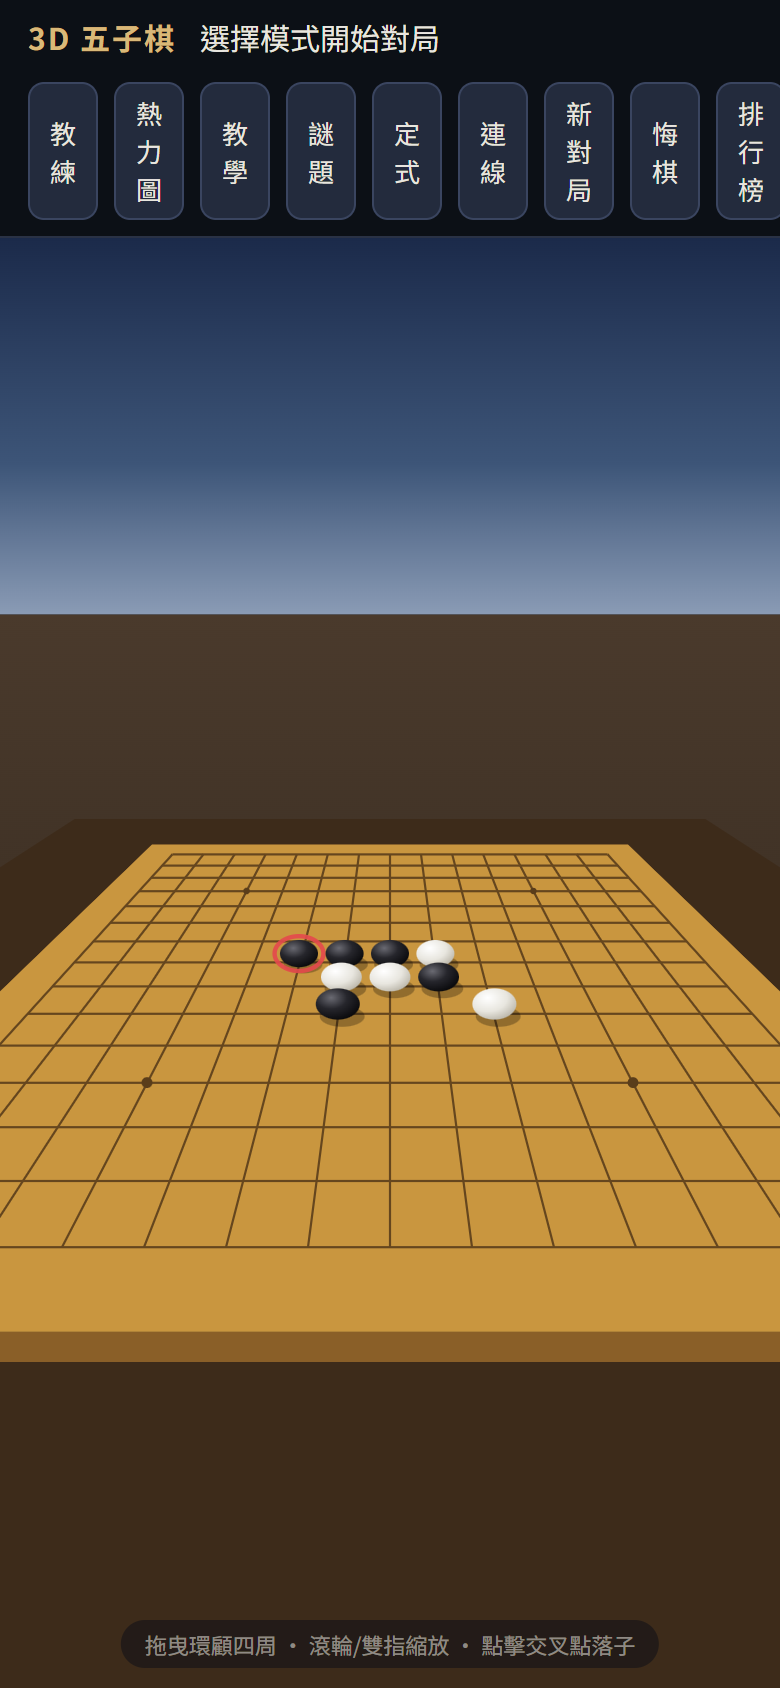
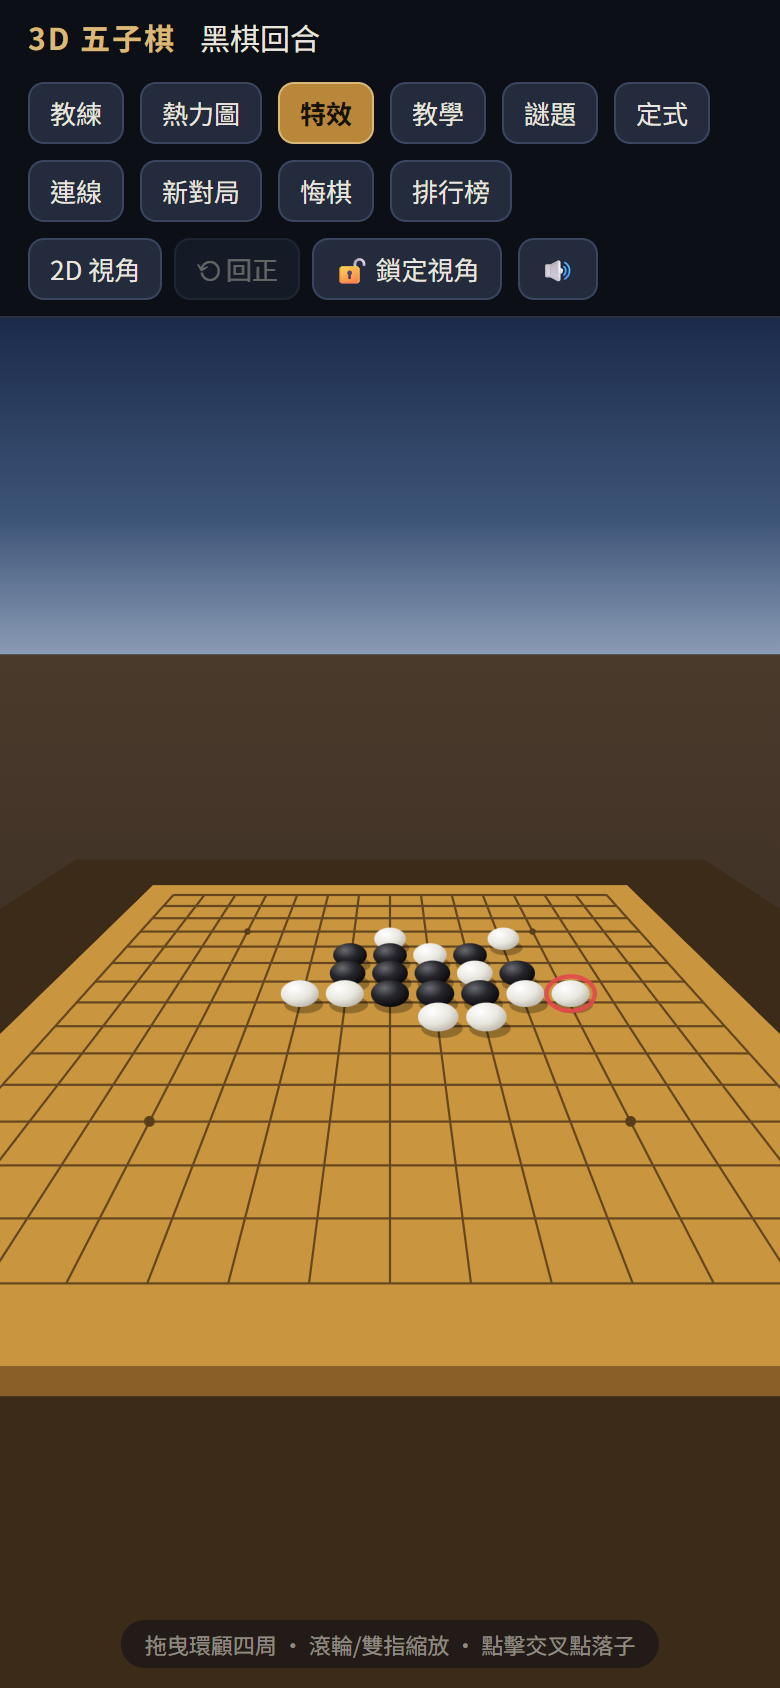
收尾：README 雙棋種化、新截圖與 og-image
任務 10/10（加入圍棋）。

- README 全面改寫：共通特色／五子棋／圍棋三段式，補圍棋規則、MCTS 與
  終局數子的設計說明、測試清單（474 項）、專案結構
- 截圖全部重拍（Playwright 擺中盤棋局實拍）：screenshot.png（五子棋）、
  screenshot-go.png（圍棋 19 路，新增）、screenshot-mobile.png（手機直向）
- og-image.png 重做：1200×630，左五子棋右圍棋並排，一眼看出一站兩棋

最終回歸：Node 測試 8 支 474 項、瀏覽器端 7 套 174 項全數通過。

Changed region(s): [[0.0, 0.4929, 1.0, 0.8318], [0.0, 0.0, 1.0, 0.1848], [0.0, 0.2773, 1.0, 0.4005]]

diff --git a/README.md b/README.md
@@ -1,36 +1,48 @@
-# 3D 五子棋 — 第一人稱對弈（強化 AI 版）
+# 3D 棋弈 — 五子棋 × 圍棋
 
-純 HTML + CSS + JavaScript + SVG 打造的 3D 五子棋，零依賴、零建置、零框架。
-以第一人稱視角坐在棋桌前對弈，可拖曳環顧、縮放視角，支援雙人對戰與電腦對戰。
+純 HTML + CSS + JavaScript + SVG 打造的 3D 棋盤遊戲，零依賴、零建置、零框架。
+一站兩種棋：**五子棋**（minimax 深度搜尋 AI）與**圍棋**（9／13／19 路、MCTS 電腦對手、中國規則數子）。
+以第一人稱視角坐在棋桌前對弈，可拖曳環顧、縮放視角，支援雙人對戰、電腦對戰與線上對戰。
 
 基於 [tonnychiulab/555](https://github.com/tonnychiulab/555)（MIT License）二次開發：
-AI 升級為 **minimax + alpha-beta 剪枝深度搜尋（四段難度）**，並新增教學、殘局謎題、
-開局定式圖鑑、AI 思考熱力圖、禁手規則、棋譜回放、線上對戰與霓虹開場等功能。
+先將五子棋 AI 升級為 minimax + alpha-beta 剪枝（四段難度），再把整個 UI 重構為棋種無關
+（`GAMES` 設定表），新增完整的圍棋規則、蒙地卡羅樹搜尋 AI 與終局數子流程。
 
 **線上遊玩：https://hbkqoo.github.io/gomoku/**
 
-![遊戲畫面](screenshot.png)
+![五子棋畫面](screenshot.png)
+![圍棋畫面](screenshot-go.png)
 
-## 特色
+## 特色（兩種棋共通）
 
-- **純 SVG 3D 渲染** — 不用 WebGL、不用 Canvas、不用任何函式庫。自製透視相機（yaw/pitch 旋轉矩陣 + 透視除法）將棋盤、棋子投影成 SVG 圖形，棋子依深度排序繪製
+- **純 SVG 3D 渲染** — 不用 WebGL、不用 Canvas、不用任何函式庫。自製透視相機（yaw/pitch 旋轉矩陣 + 透視除法）將棋盤、棋子投影成 SVG 圖形，棋子依深度排序繪製；盤面大小可變（15 路五子棋、9/13/19 路圍棋），相機距離隨盤面自動調整
 - **第一人稱視角** — 拖曳環顧四周、滾輪或雙指縮放，像真的坐在棋桌前
-- **2D 俯視 / 回正 / 鎖定視角** — 「2D 視角」把相機搬到棋盤正上方，回到傳統平面棋盤（不影響落子與所有功能）；「⟲ 回正」一鍵把角度與縮放還原成預設；「🔓 鎖定視角」擋掉拖曳與縮放，專心下棋不會誤觸轉動棋盤。三者的狀態都會記在瀏覽器裡，下次開啟沿用
-- **雙人對戰 / 與電腦對戰** — 電腦強度四級：入門（單手啟發式＋隨機）、進階（2 層搜尋）、困難（6 層搜尋）、大師（1.5 秒時間預算迭代加深至 10 層）；核心採 negamax + alpha-beta 剪枝，搭配滑動五格窗盤面評估（能正確判斷 `X X _ X X` 等帶洞棋形），可選執黑或執白
-- **線上對戰（WebRTC P2P）** — 和朋友直接連線對弈，零伺服器、不綁帳號：用任何聊天工具互傳「邀請碼／回應碼」即完成配對；落子、悔棋、新對局即時同步，斷線自動回單機（Google STUN 協助 NAT 穿透）
-- **教學模式** — 分「新手技巧」（6 條大白話必勝技巧口訣）與「動手練習」（五個必勝殘局關卡：連五、活三變活四、雙活三、四三殺、雙四殺）；下錯自動退回重試、卡關可看提示，過關附棋理說明並記錄進度；每一關的必勝性經引擎搜尋驗證
-- **殘局謎題（每日 + 練習）** — 依日期產生每天固定的殘局挑戰，三難度（入門1手／進階2手／高手3手）；每一題都經「引擎實際對打」驗證保證有解，下錯退回重試，每日破解狀態記錄
-- **開局定式圖鑑** — 連珠 26 種標準開局（花月、浦月等），小型棋形預覽標手數＋理論評價，可從任一開局「你執黑」開始對弈
-- **AI 思考熱力圖** — 一鍵顯示 AI 對每個候選點的評分（藍→紅），白環標出首選，看懂電腦怎麼想
-- **教練模式與提示** — 對局中即時標出雙方威脅點（連五點、必擋點、雙威脅、活三，依急迫度過濾）；「提示」按鈕由 AI 建議下一手
-- **禁手規則（可選）** — 正式五子棋規則：黑棋禁雙活三、雙四、長連（連五優先於禁手）；禁手點以 ✕ 標示、誤點會提示原因，AI 執黑也會避開
-- **棋譜回放** — 對局結束後逐手回放整盤棋（按鈕或鍵盤 ←/→），檢討哪裡下錯
-- **落子音效** — Web Audio 即時合成（落子、勝利、禁手音），不需音檔，可一鍵靜音
-- **無限悔棋** — 悔到空盤為止；電腦模式一次退兩手；勝局悔棋可復活繼續下
-- **電腦對電腦（觀戰模式）** — 黑棋是「大哥」：敗局已定時會閃白倒轉時間、悔棋改寫歷史（最多三次）；若仍被逼入絕境，天空轉為日出、對手棋子逃出棋盤，字幕宣告「大哥沒有輸！」（此模式維持原作的單手啟發式，保留戲劇平衡）
-- **霓虹 Tron 開場動畫** — 首次進入播放 6 秒開場：深空黑底霓虹網格、能量脈衝方環、棋盤通電浮現，可隨時輕觸跳過
-- **排行榜與親筆簽名** — 獲勝後可在簽名板上手寫簽名，連同名字、手數、用時存入 `localStorage`
-- **多裝置支援** — Pointer Events 統一處理滑鼠與觸控，響應式排版，手機直接玩
+- **2D 俯視 / 回正 / 鎖定視角** — 「2D 視角」把相機搬到棋盤正上方，回到傳統平面棋盤；「⟲ 回正」一鍵還原角度與縮放；「🔓 鎖定視角」擋掉拖曳與縮放避免誤觸。狀態記在瀏覽器裡，下次開啟沿用
+- **線上對戰（WebRTC P2P）** — 和朋友直接連線對弈，零伺服器、不綁帳號：用任何聊天工具互傳「邀請碼／回應碼」即完成配對。棋種與盤面以主機為準；落子、悔棋、虛手、認輸、死子確認、結算全程同步，斷線自動回單機（Google STUN 協助 NAT 穿透）
+- **AI 思考熱力圖** — 一鍵顯示 AI 對每個候選點的評價（藍→紅），白環標出首選；圍棋版以 MCTS 訪問數分時計算，不凍結畫面
+- **教練模式與提示** — 五子棋標出雙方威脅點（連五點、必擋點、雙威脅…）；圍棋標出叫吃層級的戰術（金＝可提子、粉紅＝我方剩一氣、紅＝逃氣點）；「提示」按鈕由 AI 建議下一手
+- **教學模式** — 每棋種各有「觀念小抄」與「動手練習」關卡，下錯自動退回重試、卡關可看提示，過關進度分開記錄
+- **棋譜回放** — 對局結束後逐手回放（按鈕或鍵盤 ←/→）；圍棋的回放按規則重演提子過程
+- **排行榜與親筆簽名** — 獲勝後手寫簽名上榜；每棋種一份榜（圍棋記錄路數與目數差／中盤勝）
+- **落子音效** — Web Audio 即時合成，不需音檔；**無限悔棋**（圍棋悔棋會還原被提的子與劫的狀態）；**多裝置支援**（Pointer Events 統一滑鼠與觸控，手機直接玩）
+
+## 五子棋
+
+- **四段電腦難度** — 入門（單手啟發式＋隨機）、進階（2 層搜尋）、困難（6 層搜尋）、大師（1.5 秒時間預算迭代加深至 10 層）；negamax + alpha-beta 剪枝、滑動五格窗盤面評估（能正確判斷 `X X _ X X` 等帶洞棋形）
+- **殘局謎題（每日 + 練習）** — 依日期產生每天固定的挑戰，三難度；每一題經「引擎實際對打」驗證保證有解
+- **開局定式圖鑑** — 連珠 26 種標準開局（花月、浦月等），可從任一開局「你執黑」開始對弈
+- **禁手規則（可選）** — 黑棋禁雙活三、雙四、長連；禁手點以 ✕ 標示、AI 執黑也會避開
+- **教學五關** — 連五、活三變活四、雙活三、四三殺、雙四殺；必勝性經引擎搜尋驗證
+- **電腦對電腦（觀戰模式）** — 黑棋是「大哥」：敗局已定時閃白倒轉時間悔棋改寫歷史（最多三次），仍不敵則對手棋子逃出棋盤，字幕宣告「大哥沒有輸！」
+- **霓虹 Tron 開場動畫** — 首次進入播放 6 秒，可隨時輕觸跳過
+
+## 圍棋
+
+- **完整規則** — 氣與提子、禁著點（自殺）、打劫（禁止立刻回提）、**位置超劫**（Zobrist 雜湊禁止重現先前盤面）、虛手；9／13／19 路三種盤面，中國規則、貼目 7.5 目
+- **MCTS 電腦對手** — 蒙地卡羅樹搜尋（UCT）＋帶叫吃應對的隨機模擬，四段難度（入門數百盤模擬～大師每手約 4 秒）。內部用 union-find ＋「偽氣」法維護棋塊與氣，實測 9 路每秒約 5 萬盤模擬、19 路約 1.3 萬盤；搜尋以 requestAnimationFrame 分時執行，AI 思考時畫面不凍結。19 路受純網頁運算量所限，棋力以 9 路最佳
+- **終局流程** — 雙方連續虛手 → 確認死子（自動判死當起點，**點任何一塊棋可切換死活**，比分即時更新、地盤即時著色）→ 中國規則數子（活子＋圍地＋貼目，結算面板列明細）；隨時可認輸。自動判死結合蒙地卡羅擁有率與兩條硬規則（兩眼無條件活；單一 ≤3 點眼位必死），複雜死活仍以手動修正為準
+- **教學六關** — 氣與提子、逃出叫吃、雙叫吃、做出兩個眼、打劫（實際體驗劫的規則與劫材）、征子；每關的可解性與錯手判定經測試驗證
+- **狀態列** — 即時顯示雙方提子數、對方虛手提醒、終局結果
 
 ## 本機執行
 
@@ -53,43 +65,56 @@ python -m http.server 8000
 | 縮放 | 滾輪 | 雙指開合 |
 | 2D 俯視 / 回正 / 鎖定 | 「2D 視角」／「⟲ 回正」／「🔓 鎖定視角」按鈕 | 同左 |
 | 悔棋 | 「悔棋」按鈕或 `Ctrl+Z` / `U` | 「悔棋」按鈕 |
+| 虛手 / 認輸（圍棋） | 「虛手」／「認輸」按鈕 | 同左 |
+| 確認死子（圍棋終局） | 點棋子切換死活 → 「確認結算」 | 同左 |
 
-## AI 設計（本版強化重點）
+## AI 設計
 
-`engine.js` 的 `aiMove(game, opts)`：
+### 五子棋（`engine.js`）
 
 1. **一步決勝負捷徑** — 己方能連五直接下；對方下一手能連五直接擋，不進搜尋
-2. **走法排序** — 對每個候選點（既有棋子 2 格內）以攻守合算的啟發式評分排序，每層只展開前 8 名（`BRANCH = 8`）
-3. **negamax + alpha-beta** — 困難級 6 層（雙方各三手），能看穿「做雙活三」「四三殺」等組合攻擊；大師級用時間預算迭代加深（2→10 層、預設 1.5 秒）
-4. **盤面評估** — 滑動五格窗：任一五格窗內只有單方棋子時依子數計分 `[0, 2, 40, 800, 20000, 10000000]`，開放棋形自然落在多個乾淨窗內而累積高分；對手同級威脅加權 ×1.15
-5. **選項** — `opts.level`（`easy`/`medium`/`hard`/`master` 難度預設）、`opts.depth`（自訂深度，`0` = 原作的單手啟發式）、`opts.jitter`/`opts.pool`（隨機性，觀戰模式用）、`opts.timeBudget`/`opts.maxDepth`（迭代加深）
+2. **走法排序** — 對每個候選點以攻守合算的啟發式評分排序，每層只展開前 8 名
+3. **negamax + alpha-beta** — 困難級 6 層；大師級用時間預算迭代加深（2→10 層）
+4. **盤面評估** — 滑動五格窗依子數計分，開放棋形自然累積高分；對手同級威脅加權 ×1.15
 
-分析 API：`hints(game)` 威脅點分類（教練模式）、`analyzeMoves(game)` 候選點評分（熱力圖）、`forcedWin/forcedLoss(game, depth)` 必勝／必敗判定（教學關卡與謎題判題）、`forbiddenReason(board, x, y)` 禁手判定（Renju 簡化版）。
+分析 API：`hints`（教練）、`analyzeMoves`（熱力圖）、`forcedWin/forcedLoss`（教學判題）、`forbiddenReason`（禁手）。
 
-強度基準（`node tests/benchmark.js`，seeded 可重現）：搜尋版對原作啟發式（加隨機擾動）20 局 16 勝 0 敗 4 和，深度版單手思考最長約 0.5 秒。
+### 圍棋（`go.js` + `go-ai.js`）
+
+- `go.js`：規則引擎。棋塊與氣用 flood fill、超劫用雙 32 位元 Zobrist 雜湊、
+  中國規則數子（死子可外部指定）、棋譜重播按規則重演
+- `go-ai.js`：高速盤面（union-find + 偽氣三累加量，叫吃判定 O(1)）、
+  UCT 樹搜尋＋先驗（提子/救子/位置）、模擬帶叫吃應對（提掉被叫吃的敵塊、
+  救出被叫吃的我方棋塊），可分時執行（`createSearch().step(ms)`）；
+  `guessDead` 以多盤模擬統計每點歸屬，供終局自動判死
 
 ## 測試
 
-引擎、教學關卡、謎題產生器、定式資料皆可在 Node 直接測試（純邏輯，不需瀏覽器）：
+引擎、AI、教學關卡、謎題產生器、定式資料皆可在 Node 直接測試（純邏輯，不需瀏覽器）：
 
 ```bash
-node tests/engine.test.js    # 引擎單元測試（56 項：規則、禁手、難度、熱力圖評分、AI 強度）
-node tests/lessons.test.js   # 教學關卡驗證（35 項：必勝性、正解、錯手判定）
-node tests/puzzles.test.js   # 謎題產生器驗證（23 項：各難度合法、日期決定性、對打驗證）
-node tests/openings.test.js  # 開局定式資料驗證（58 項：26 種座標自洽）
-node tests/benchmark.js      # AI 強度基準（20 局 seeded 對弈）
+node tests/engine.test.js      # 五子棋引擎（56 項：規則、禁手、難度、AI 強度）
+node tests/difficulty.test.js  # 五子棋難度分級（8 項）
+node tests/go.test.js          # 圍棋規則引擎（132 項：氣、提子、劫、超劫、虛手、數子）
+node tests/go-ai.test.js       # 圍棋 AI（95 項：高速盤面與規則引擎逐手交叉比對、戰術、死活、棋力）
+node tests/go-lessons.test.js  # 圍棋教學關卡（67 項：可解性、錯手判定、征子全程）
+node tests/lessons.test.js     # 五子棋教學關卡（35 項）
+node tests/puzzles.test.js     # 謎題產生器（23 項）
+node tests/openings.test.js    # 開局定式資料（58 項）
+node tests/benchmark.js        # 五子棋 AI 強度基準（20 局 seeded 對弈）
 ```
 
-UI 行為（難度選單、教學、謎題、定式、熱力圖、禁手、回放、霓虹開場、線上對戰）另以
-Playwright + 系統 Edge 無頭瀏覽器做端對端測試（含兩瀏覽器真實 WebRTC 握手）。
+UI 行為（棋種切換、教學、謎題、熱力圖、終局數子、回放、線上對戰）另以
+Playwright 無頭瀏覽器做端對端測試（含兩分頁真實 WebRTC 握手、圍棋終局全流程）。
 
-`engine.js` 為 UMD 模組，也可直接在 Node 使用：
+引擎皆為 UMD 模組，可直接在 Node 使用：
 
 ```js
-const E = require('./engine.js');
-const g = E.createGame();
-E.place(g, 7, 7);
-E.aiMove(g, { level: 'hard' }); // => { x, y }
+const Go = require('./go.js');
+const AI = require('./go-ai.js');
+const g = Go.createGame({ size: 9 });
+Go.place(g, 4, 4);
+AI.aiMove(g, { level: 'hard' }); // => { x, y } 或 { pass: true }
 ```
 
 ## 專案結構
@@ -97,14 +122,17 @@ E.aiMove(g, { level: 'hard' }); // => { x, y }
 ```
 ├── index.html            # 頁面結構、SVG 圖層與漸層定義、彈窗
 ├── style.css             # 版面與響應式樣式
-├── engine.js             # 遊戲引擎：棋盤、勝負判定、悔棋、禁手、AI、分析 API（UMD）
-├── lessons.js            # 教學：新手技巧小抄 + 五關必勝棋法（UMD）
-├── openings.js           # 開局定式圖鑑資料：26 種連珠開局（UMD）
-├── puzzles.js            # 殘局謎題產生器：日期決定性、對打驗證保證必勝（UMD）
+├── main.js               # 棋種無關 UI：GAMES 設定表、3D 投影、SVG 渲染、視角、終局流程、線上對戰
+├── engine.js             # 五子棋引擎：規則、禁手、minimax AI、分析 API（UMD）
+├── go.js                 # 圍棋規則引擎：氣、提子、劫、超劫、虛手、中國規則數子（UMD）
+├── go-ai.js              # 圍棋 AI：union-find 高速盤面、MCTS（UCT）、死活判定（UMD）
+├── go-lessons.js         # 圍棋教學：六關劇本 + 觀念小抄（UMD）
+├── lessons.js            # 五子棋教學：五關必勝棋法 + 技巧小抄（UMD）
+├── openings.js           # 五子棋開局定式圖鑑：26 種連珠開局（UMD）
+├── puzzles.js            # 五子棋殘局謎題產生器（UMD）
 ├── online.js             # 線上對戰：WebRTC P2P 連線封裝
-├── main.js               # 3D 投影、SVG 渲染、視角操作、各功能 UI、霓虹開場
-├── tests/*.test.js       # Node 單元測試（engine/lessons/puzzles/openings）
-├── tests/benchmark.js    # AI 強度基準測試
+├── tests/*.test.js       # Node 單元測試（見上方測試清單）
+├── tests/benchmark.js    # 五子棋 AI 強度基準測試
 └── favicon.svg           # 網站圖示
 ```
 
